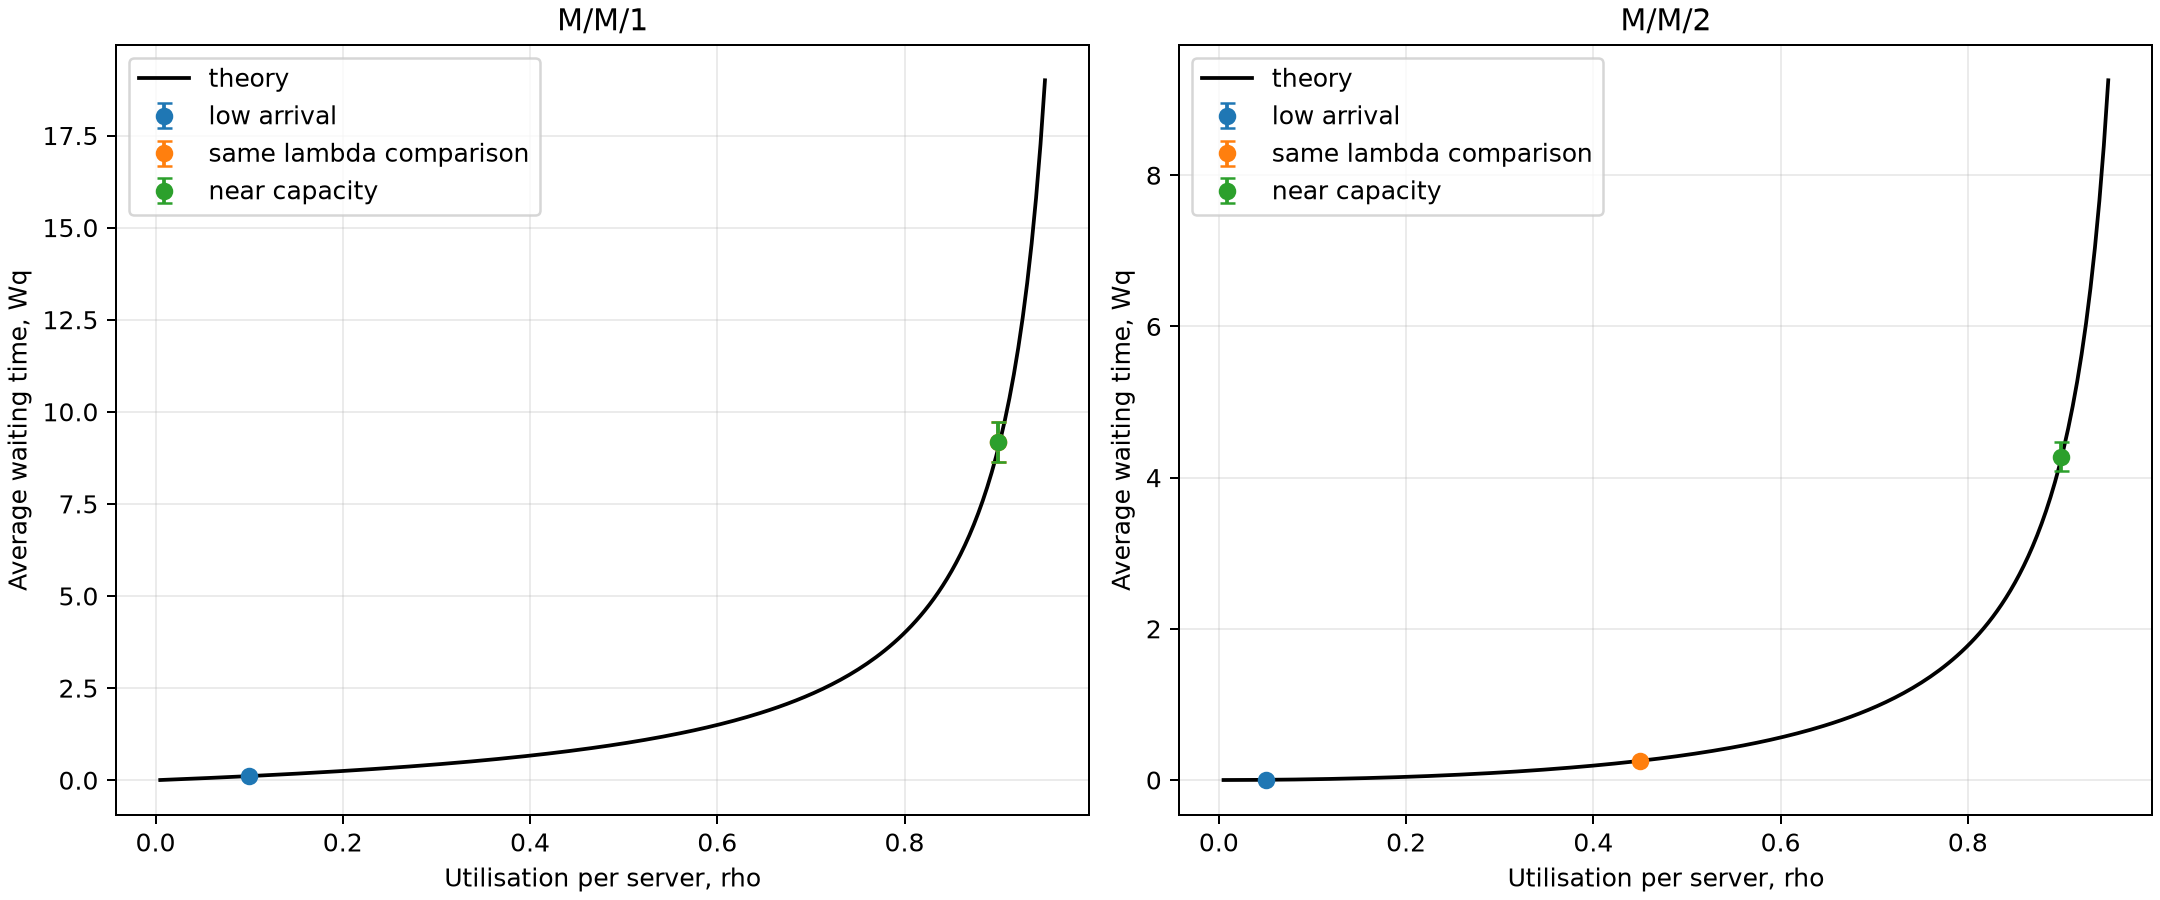
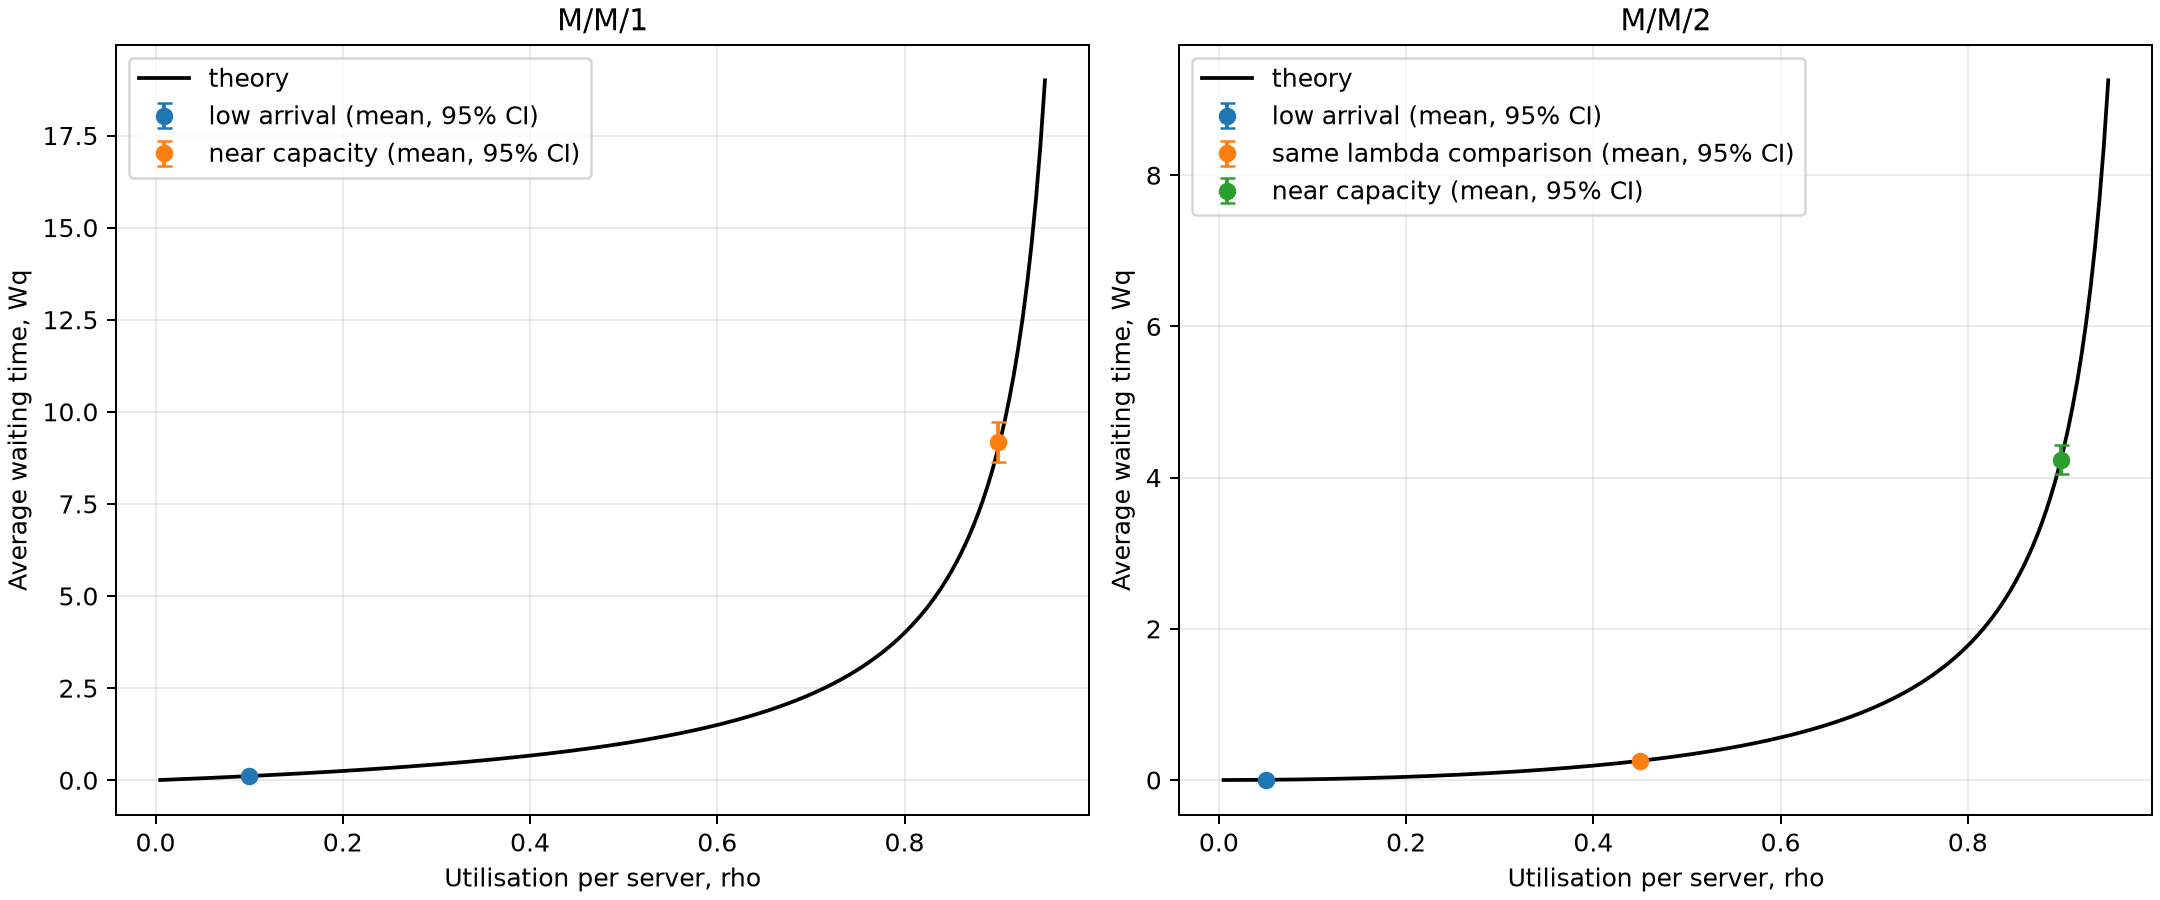
done the phase

diff --git a/project-name/verify_simulations.py b/project-name/verify_simulations.py
@@ -23,6 +23,7 @@ REPLICATIONS = 20
 DURATION = 20_000.0
 SERVICE_RATE = 1.0
 BASE_SEED = 10_000
+RELATIVE_ERROR_TOLERANCE = 0.05
 OUTPUT_DIRECTORY = Path(__file__).resolve().parent
 CSV_PATH = OUTPUT_DIRECTORY / "verification_results.csv"
 FIGURE_PATH = OUTPUT_DIRECTORY / "figures" / "verification.png"
@@ -105,14 +106,20 @@ def _verification_row(
     mean, lower, upper = _confidence_interval(samples)
     difference = mean - expected
     relative_error = abs(difference) / abs(expected) if expected else float("nan")
-    passed = lower <= expected <= upper
+    interval_covers_theory = lower <= expected <= upper
+    within_tolerance = np.isfinite(relative_error) and relative_error <= RELATIVE_ERROR_TOLERANCE
+    passed = interval_covers_theory or within_tolerance
     return {
         "Check": check,
         "Theoretical expected value": f"{expected:.8g}",
         "Simulated value": f"{mean:.8g}",
         "95% confidence interval": f"[{lower:.8g}, {upper:.8g}]",
+        "95% CI covers theory": str(interval_covers_theory),
         "Difference": f"{difference:.8g}",
         "Relative error": f"{relative_error:.4%}" if np.isfinite(relative_error) else "n/a",
+        "Acceptance criterion": (
+            f"CI covers theory or relative error <= {RELATIVE_ERROR_TOLERANCE:.0%}"
+        ),
         "Pass/fail": "PASS" if passed else "FAIL",
     }
 
@@ -207,8 +214,10 @@ def main() -> None:
                         "Theoretical expected value": "true for every replication",
                         "Simulated value": f"{sum(outcomes)}/{len(outcomes)} passed",
                         "95% confidence interval": "n/a",
+                        "95% CI covers theory": "n/a",
                         "Difference": "n/a",
                         "Relative error": "n/a",
+                        "Acceptance criterion": "all replications pass",
                         "Pass/fail": "PASS" if all(outcomes) else "FAIL",
                     }
                 )
@@ -230,8 +239,10 @@ def main() -> None:
             "Theoretical expected value": "M/M/2 < M/M/1",
             "Simulated value": f"{comparison_values[1]:.8g} < {comparison_values[0]:.8g}",
             "95% confidence interval": "see corresponding metric rows",
+            "95% CI covers theory": "n/a",
             "Difference": f"{comparison_values[1] - comparison_values[0]:.8g}",
             "Relative error": "n/a",
+            "Acceptance criterion": "M/M/2 mean wait is lower",
             "Pass/fail": "PASS" if comparison_values[1] < comparison_values[0] else "FAIL",
         }
     )
@@ -255,6 +266,8 @@ def main() -> None:
         ]
         axis.plot(utilization_grid, theoretical_waits, color="black", label="theory")
         for scenario_name, _ in scenarios:
+            if model_name == "M/M/1" and scenario_name == "same lambda comparison":
+                continue
             point = plot_data.get((model_name, scenario_name))
             if point is None:
                 continue
@@ -265,7 +278,7 @@ def main() -> None:
                 marker="o",
                 capsize=3,
                 linestyle="none",
-                label=scenario_name,
+                label=f"{scenario_name} (mean, 95% CI)",
             )
         axis.set_title(model_name)
         axis.set_xlabel("Utilisation per server, rho")
